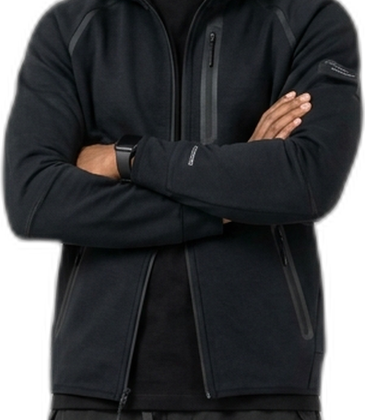
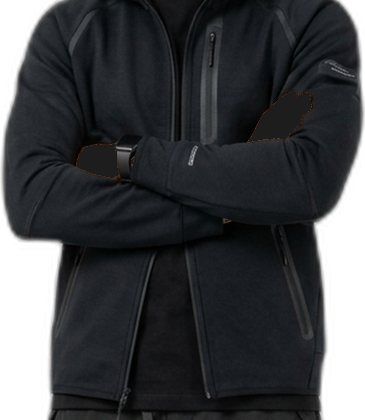
feat(lookbook): match 1:1 model clothing thumbs, add signature cursive typography and remove hint

Changed region(s): [[0.663, 0.2167, 0.874, 0.3405], [0.211, 0.3405, 0.3315, 0.4333]]

diff --git a/FashionStore/wwwroot/js/lookbook.js b/FashionStore/wwwroot/js/lookbook.js
@@ -30,9 +30,9 @@
                         { top: '93%', left: '49%', itemIndex: 2 }
                     ],
                     items: [
-                        it('nf1-top', 'Áo thun', 'Neo-Future Arc Graphic Tee', 490000, '/images/products/clothes/distressed-graphic-tee.png', SZ_TOP, 'L', 'Đen Than Chì', '#111827'),
-                        it('nf1-pant', 'Quần jeans', 'Quần Jeans Baggy Washed Black', 640000, '/images/pants/cargo-acid-wash-front.png', SZ_PANT, '31', 'Đen Wash', '#374151'),
-                        it('nf1-shoe', 'Sneaker', 'AIR FUTURE III – NEXUS X1', 4900000, '/images/sneakers/air-future-iii.webp', SZ_SHOE, '43', 'WHITE / ACID VOLT', '#84cc16')
+                        it('nf1-top', 'Áo thun', 'Neo-Future Arc Graphic Tee', 490000, '/images/lookbook/thumb/look-n1-top.png', SZ_TOP, 'L', 'Đen Than Chì', '#111827'),
+                        it('nf1-pant', 'Quần jeans', 'Quần Jeans Baggy Washed Black', 640000, '/images/lookbook/thumb/look-n1-pant.png', SZ_PANT, '31', 'Đen Wash', '#374151'),
+                        it('nf1-shoe', 'Sneaker', 'AIR FUTURE III – NEXUS X1', 4900000, '/images/lookbook/thumb/look-n1-shoe.png', SZ_SHOE, '43', 'WHITE / ACID VOLT', '#84cc16')
                     ]
                 },
                 {
@@ -45,9 +45,9 @@
                         { top: '93%', left: '50%', itemIndex: 2 }
                     ],
                     items: [
-                        it('nf2-top', 'Hoodie', 'Technical Zip Hoodie Noir', 890000, '/images/products/clothes/heavyweight-boxy-hoodie.png', SZ_TOP, 'L', 'Đen Tối Giản', '#0f172a'),
-                        it('nf2-pant', 'Quần cargo', 'Quần Parachute Tactical Noir', 680000, '/images/pants/raw-selvedge-black-front.png', SZ_PANT, '31', 'Đen Nhám', '#1e293b'),
-                        it('nf2-shoe', 'Sneaker', 'AIR FUTURE IX – SHADOW RUNNER', 4200000, '/images/sneakers/air-future-ix.webp', SZ_SHOE, '42', 'TRIPLE BLACK', '#000000')
+                        it('nf2-top', 'Hoodie', 'Technical Zip Hoodie Noir', 890000, '/images/lookbook/thumb/look-n2-top.png', SZ_TOP, 'L', 'Đen Tối Giản', '#0f172a'),
+                        it('nf2-pant', 'Quần cargo', 'Quần Parachute Tactical Noir', 680000, '/images/lookbook/thumb/look-n2-pant.png', SZ_PANT, '31', 'Đen Nhám', '#1e293b'),
+                        it('nf2-shoe', 'Sneaker', 'AIR FUTURE IX – SHADOW RUNNER', 4200000, '/images/lookbook/thumb/look-n2-shoe.png', SZ_SHOE, '42', 'TRIPLE BLACK', '#000000')
                     ]
                 },
                 {
@@ -60,9 +60,9 @@
                         { top: '93%', left: '50%', itemIndex: 2 }
                     ],
                     items: [
-                        it('nf3-top', 'Áo thun', 'Acid Charcoal Boxy Tee', 520000, '/images/products/clothes/vintage-washed-boxy-tee.png', SZ_TOP, 'L', 'Xám Loang Than', '#334155'),
-                        it('nf3-pant', 'Quần jeans', 'Quần Jeans Distressed Grey', 590000, '/images/pants/cargo-acid-wash.png', SZ_PANT, '30', 'Xám Chàm Loang', '#475569'),
-                        it('nf3-shoe', 'Sneaker', 'AIR FUTURE V – CYBER OVERDRIVE', 4400000, '/images/sneakers/air-future-v.webp', SZ_SHOE, '41', 'WHITE / BLACK', '#e2e8f0')
+                        it('nf3-top', 'Áo thun', 'Acid Charcoal Boxy Tee', 520000, '/images/lookbook/thumb/look-n3-top.png', SZ_TOP, 'L', 'Xám Loang Than', '#334155'),
+                        it('nf3-pant', 'Quần jeans', 'Quần Jeans Distressed Grey', 590000, '/images/lookbook/thumb/look-n3-pant.png', SZ_PANT, '30', 'Xám Chàm Loang', '#475569'),
+                        it('nf3-shoe', 'Sneaker', 'AIR FUTURE V – CYBER OVERDRIVE', 4400000, '/images/lookbook/thumb/look-n3-shoe.png', SZ_SHOE, '41', 'WHITE / BLACK', '#e2e8f0')
                     ]
                 },
                 {
@@ -75,9 +75,9 @@
                         { top: '93%', left: '50%', itemIndex: 2 }
                     ],
                     items: [
-                        it('nf4-top', 'Áo nỉ', 'Graphic Crewneck Noir', 780000, '/images/products/clothes/fleece-vintage-crewneck.png', SZ_TOP, 'L', 'Đen Tuyền', '#111827'),
-                        it('nf4-pant', 'Quần ống rộng', 'Quần Wide-Leg Navy Trousers', 640000, '/images/pants/wide-leg-denim-front.png', SZ_PANT, '31', 'Navy Đậm', '#1e3a5f'),
-                        it('nf4-shoe', 'Sneaker', 'AIR FUTURE IV – NIGHT TRACK', 4500000, '/images/sneakers/air-future-iv.webp', SZ_SHOE, '42', 'BLACK / ANTHRACITE', '#111111')
+                        it('nf4-top', 'Áo nỉ', 'Graphic Crewneck Noir', 780000, '/images/lookbook/thumb/look-n4-top.png', SZ_TOP, 'L', 'Đen Tuyền', '#111827'),
+                        it('nf4-pant', 'Quần ống rộng', 'Quần Wide-Leg Navy Trousers', 640000, '/images/lookbook/thumb/look-n4-pant.png', SZ_PANT, '31', 'Navy Đậm', '#1e3a5f'),
+                        it('nf4-shoe', 'Sneaker', 'AIR FUTURE IV – NIGHT TRACK', 4500000, '/images/lookbook/thumb/look-n4-shoe.png', SZ_SHOE, '42', 'BLACK / ANTHRACITE', '#111111')
                     ]
                 }
             ]
@@ -98,9 +98,9 @@
                         { top: '94%', left: '50%', itemIndex: 2 }
                     ],
                     items: [
-                        it('re1-top', 'Áo thun', 'Fern Tee – Dương Xỉ Xanh Chàm', 440000, '/images/products/clothes/oversize-streetwear-tee-white.png', SZ_TOP, 'L', 'Trắng Ngà / Prussian', '#1d4ed8'),
-                        it('re1-pant', 'Quần jeans', 'Quần Jeans Ống Rộng Vintage Washed', 540000, '/images/pants/wide-leg-denim.png', SZ_PANT, '31', 'Xanh Vintage (90s Blue)', '#3b82f6'),
-                        it('re1-shoe', 'Sneaker', 'Retro Court Low – Gum Sole', 3600000, '/images/products/shoes/nike-dunk-low-retro.png', SZ_SHOE, '42', 'WHITE / GUM', '#d97706')
+                        it('re1-top', 'Áo thun', 'Fern Tee – Dương Xỉ Xanh Chàm', 440000, '/images/lookbook/thumb/look-e1-top.png', SZ_TOP, 'L', 'Trắng Ngà / Prussian', '#1d4ed8'),
+                        it('re1-pant', 'Quần jeans', 'Quần Jeans Ống Rộng Vintage Washed', 540000, '/images/lookbook/thumb/look-e1-pant.png', SZ_PANT, '31', 'Xanh Vintage (90s Blue)', '#3b82f6'),
+                        it('re1-shoe', 'Sneaker', 'Retro Court Low – Gum Sole', 3600000, '/images/lookbook/thumb/look-e1-shoe.png', SZ_SHOE, '42', 'WHITE / GUM', '#d97706')
                     ]
                 },
                 {
@@ -113,9 +113,9 @@
                         { top: '93%', left: '50%', itemIndex: 2 }
                     ],
                     items: [
-                        it('re2-top', 'Áo thun', 'Heavy Cotton Crewneck Cát', 480000, '/images/products/clothes/sand-crewneck-tee.png', SZ_TOP, 'L', 'Be Cát Thô', '#d6c7b2'),
-                        it('re2-pant', 'Quần jeans', 'Quần Jeans Raw Denim 14oz Chàm Đậm', 740000, '/images/pants/raw-selvedge-black.png', SZ_PANT, '31', 'Chàm Đậm (Deep Indigo)', '#1e1b4b'),
-                        it('re2-shoe', 'Sneaker', 'Suede Skate High – Earth', 2400000, '/images/products/shoes/converse-chuck-70-high.png', SZ_SHOE, '41', 'OATMEAL / GUM', '#b45309')
+                        it('re2-top', 'Áo thun', 'Heavy Cotton Crewneck Cát', 480000, '/images/lookbook/thumb/look-e2-top.png', SZ_TOP, 'L', 'Be Cát Thô', '#d6c7b2'),
+                        it('re2-pant', 'Quần jeans', 'Quần Jeans Raw Denim 14oz Chàm Đậm', 740000, '/images/lookbook/thumb/look-e2-pant.png', SZ_PANT, '31', 'Chàm Đậm (Deep Indigo)', '#1e1b4b'),
+                        it('re2-shoe', 'Sneaker', 'Suede Skate High – Earth', 2400000, '/images/lookbook/thumb/look-e2-shoe.png', SZ_SHOE, '41', 'OATMEAL / GUM', '#b45309')
                     ]
                 },
                 {
@@ -128,9 +128,9 @@
                         { top: '93%', left: '50%', itemIndex: 2 }
                     ],
                     items: [
-                        it('re3-top', 'Áo khoác', 'Boxy Khaki Workwear Overshirt', 690000, '/images/products/clothes/khaki-workwear-overshirt.png', SZ_TOP, 'L', 'Khaki Đất', '#a3825a'),
-                        it('re3-pant', 'Quần xếp ly', 'Quần Pleated Sand Beige', 680000, '/images/pants/pleated-sand-beige-front.png', SZ_PANT, '31', 'Be Cát Tự Nhiên', '#d5c9b6'),
-                        it('re3-shoe', 'Sneaker', 'Retro Low-Top Leather', 2900000, '/images/products/shoes/nike-air-force-1-low.png', SZ_SHOE, '42', 'CHALK WHITE', '#f8fafc')
+                        it('re3-top', 'Áo khoác', 'Boxy Khaki Workwear Overshirt', 690000, '/images/lookbook/thumb/look-e3-top.png', SZ_TOP, 'L', 'Khaki Cát Nắng', '#d3b794'),
+                        it('re3-pant', 'Quần xếp ly', 'Quần Pleated Sand Beige', 680000, '/images/lookbook/thumb/look-e3-pant.png', SZ_PANT, '31', 'Be Cát Tự Nhiên', '#d5c9b6'),
+                        it('re3-shoe', 'Sneaker', 'Retro Low-Top Chalk White Leather', 2900000, '/images/lookbook/thumb/look-e3-shoe.png', SZ_SHOE, '42', 'CHALK WHITE', '#ffffff')
                     ]
                 }
             ]
@@ -174,8 +174,8 @@
         root.innerHTML =
             '<section class="lb-stage" id="lbStage">' +
               '<div class="lb-head">' +
-                '<div class="lb-brand-signature">HNMTSHOP</div>' +
-                '<h1 class="lb-title">' + esc(colData.title) + '</h1>' +
+                '<div class="lb-brand-signature">HnmtShop</div>' +
+                '<div class="lb-brand-collection">BỘ SƯU TẬP • ' + esc(colData.title) + '</div>' +
               '</div>' +
               '<div class="lb-tools">' +
                 '<button type="button" class="lb-bag-btn" id="lbCart" title="Túi đồ">' +

diff --git a/FashionStore/wwwroot/css/lookbook.css b/FashionStore/wwwroot/css/lookbook.css
@@ -1,3 +1,5 @@
+@import url('https://fonts.googleapis.com/css2?family=Dancing+Script:wght@600;700&family=Pacifico&family=Plus+Jakarta+Sans:wght@400;500;600;700;800&display=swap');
+
 /* ==========================================================================
    HNMT ATELIER — "TRY THE LOOK" 3D TURNTABLE RUNWAY
    Senior Fashion UX/UI: Ultra-Glassmorphism, Micro Hotspot Pins, Weighted Turntable
@@ -57,27 +59,31 @@
     left: 48px;
     z-index: 20;
     pointer-events: none;
+    display: flex;
+    flex-direction: column;
+    align-items: flex-start;
 }
 .lb-brand-signature {
-    font-family: 'Playfair Display', 'Cormorant Garamond', Georgia, serif;
-    font-style: italic;
-    font-weight: 600;
-    font-size: 28px;
-    letter-spacing: 0.5px;
+    font-family: 'Pacifico', 'Dancing Script', cursive, sans-serif;
+    font-weight: 400;
+    font-size: 38px;
+    letter-spacing: -0.5px;
     color: var(--lb-ink);
-    line-height: 1;
-    margin-bottom: 4px;
-    opacity: 0.92;
+    line-height: 1.05;
+    margin: 0 0 6px 0;
+    text-shadow: 0 2px 12px rgba(255, 255, 255, 0.4);
+}
+.lb-brand-collection {
+    font-family: 'Plus Jakarta Sans', -apple-system, BlinkMacSystemFont, sans-serif;
+    font-size: 13px;
+    font-weight: 700;
+    letter-spacing: 3.5px;
+    color: var(--lb-mute);
+    line-height: 1.2;
+    text-transform: uppercase;
 }
 .lb-title {
-    font-family: 'Jost', sans-serif;
-    font-size: 42px;
-    font-weight: 700;
-    letter-spacing: -0.5px;
-    margin: 0;
-    line-height: 1.05;
-    color: var(--lb-ink);
-    text-transform: uppercase;
+    display: none;
 }
 
 /* Top-Right Navigation Tools (Matching Store/Products exactly) */
